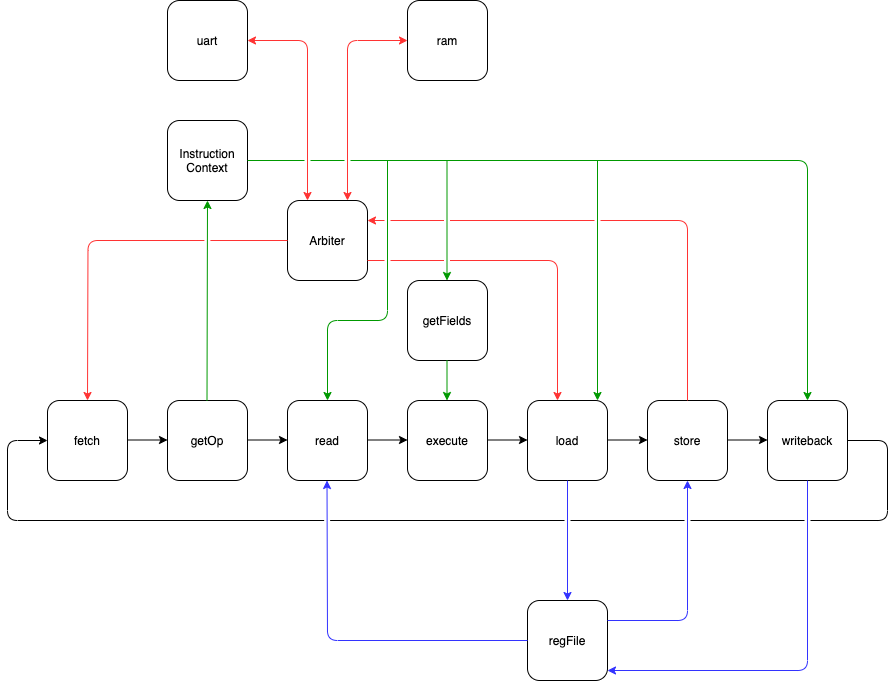
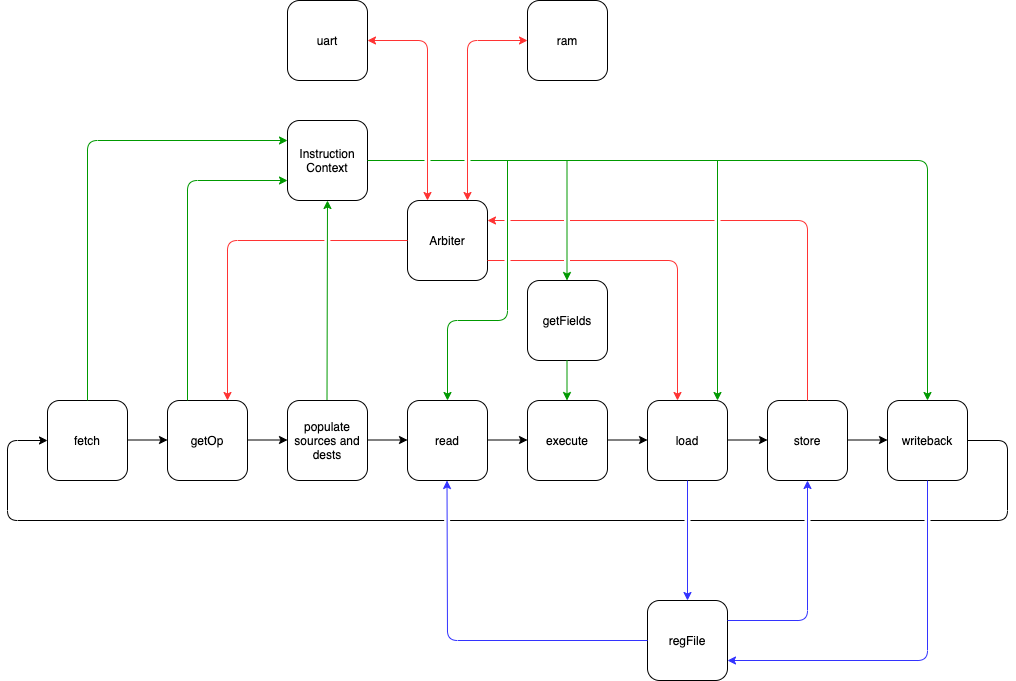
CPU advancing with functional decoder

diff --git a/README.md b/README.md
@@ -27,9 +27,13 @@ The architecture of this simulator somewhat resembles the architecture
 of a multicyle CPU. The simulator simulates a single stage at a time,
 and continuously cycles through all stages.
 
-# Status and TODO
+# Status 
 
-Doesn't yet work!
+Not yet ready!!
+
+Currently just advances the program counter and decodes instructions.
+
+# TODO
 
  - [ ] populate .gitignore with all binaries to possibly be generated
  - [ ] build a binary that allows me to print registers
